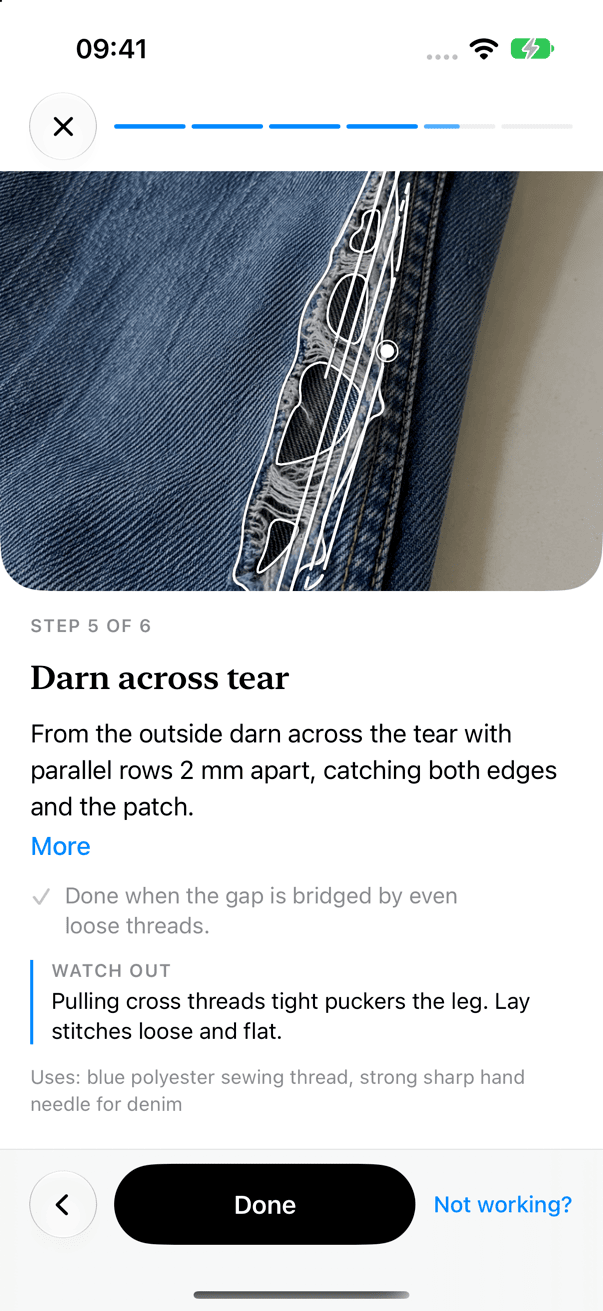
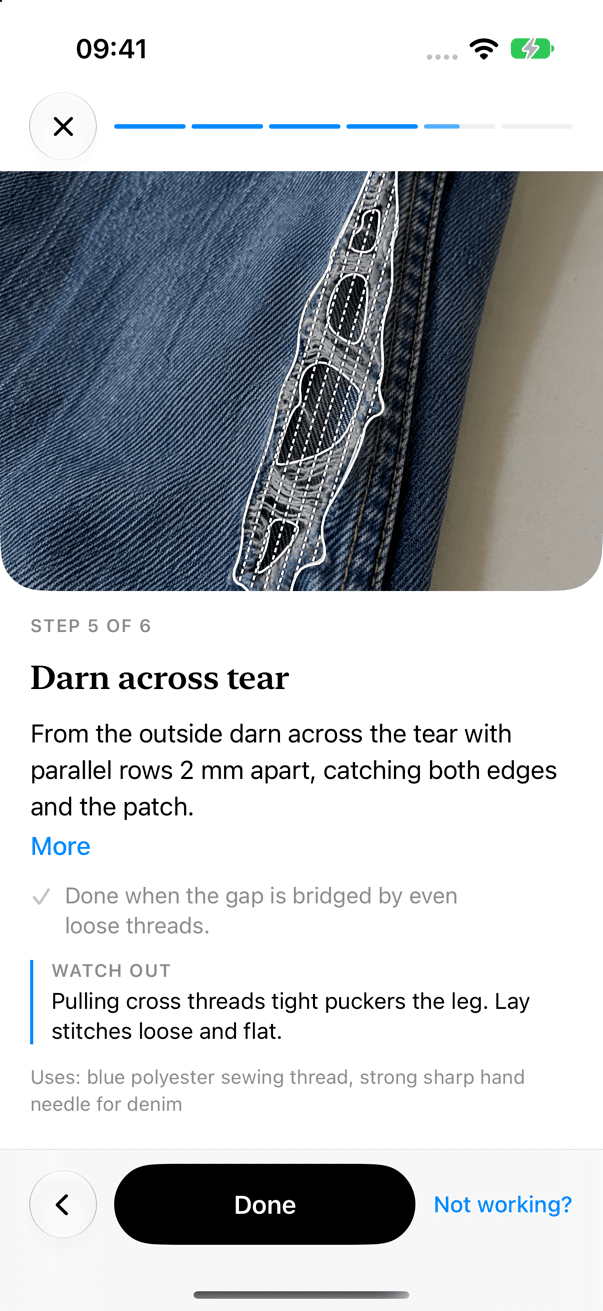
ios: Stopfmuster als echte Stichreihen im Maskenrahmen, Nadelpfeil, Leiter-/Vorstich als saubere Stichdiagramme

Changed region(s): [[0.3881, 0.122, 0.6866, 0.4577]]

diff --git a/ios/RepairAssistant/Rendering/StitchPathView.swift b/ios/RepairAssistant/Rendering/StitchPathView.swift
@@ -184,8 +184,97 @@ struct StitchPathView: View {
         return head
     }
 
+    // MARK: Crafted stitch diagram
+
+    private let stitchLen: CGFloat = 3, stitchGap: CGFloat = 2
+
+    private func maskPath(_ size: CGSize) -> Path? {
+        guard !plan.mask.isEmpty else { return nil }
+        var path = Path()
+        for ring in plan.mask where ring.count >= 3 {
+            path.addLines(ring.map { px($0, size) }); path.closeSubpath()
+        }
+        return path
+    }
+
+    /// Dark under-stroke plus white thread, both dashed.
+    private func strokeDashed(_ ctx: inout GraphicsContext, _ path: Path, phase: CGFloat, dash: [CGFloat]) {
+        ctx.stroke(path, with: .color(.black.opacity(0.6)), style: StrokeStyle(lineWidth: 3.0, lineCap: .butt, dash: dash, dashPhase: phase))
+        ctx.stroke(path, with: .color(.white), style: StrokeStyle(lineWidth: 1.5, lineCap: .butt, dash: dash, dashPhase: phase))
+    }
+
+    private func drawArrow(_ ctx: inout GraphicsContext, at m: CGPoint, from a: CGPoint, to b: CGPoint) {
+        let ang = atan2(b.y - a.y, b.x - a.x)
+        var c = ctx
+        c.translateBy(x: m.x, y: m.y); c.rotate(by: .radians(Double(ang)))
+        var arrow = Path()
+        arrow.move(to: CGPoint(x: -7, y: 0)); arrow.addLine(to: CGPoint(x: 6, y: 0))
+        arrow.move(to: CGPoint(x: 1.5, y: -4)); arrow.addLine(to: CGPoint(x: 6.5, y: 0)); arrow.addLine(to: CGPoint(x: 1.5, y: 4))
+        c.stroke(arrow, with: .color(.black.opacity(0.6)), style: StrokeStyle(lineWidth: 3.4, lineCap: .round, lineJoin: .round))
+        c.stroke(arrow, with: .color(.white), style: StrokeStyle(lineWidth: 1.6, lineCap: .round, lineJoin: .round))
+    }
+
+    private func drawDarning(_ ctx: inout GraphicsContext, _ size: CGSize, progress: Double) {
+        let rows = plan.gridLines.compactMap { l -> (CGPoint, CGPoint)? in
+            guard l.count == 2 else { return nil }
+            return (px(l[0], size), px(l[1], size))
+        }
+        guard !rows.isEmpty else { return }
+        let nWarp = min(plan.firstDirectionCount, rows.count)
+        let animated: Range<Int> = phase == .first ? 0..<nWarp : phase == .second ? nWarp..<rows.count : 0..<rows.count
+        let staticRows: Range<Int> = phase == .second ? 0..<nWarp : 0..<0
+        let shown = progress >= 1 ? animated.count : min(animated.count, Int(progress * Double(animated.count)) + 1)
+        let activeIdx = progress >= 1 ? animated.lowerBound + animated.count / 2 : animated.lowerBound + shown - 1
+        let rowProgress = progress >= 1 ? 1 : (progress * Double(animated.count)) - Double(shown - 1)
+        let dash = [stitchLen, stitchGap]
+        ctx.drawLayer { l in
+            if let m = maskPath(size) { l.clip(to: m, style: FillStyle(eoFill: true)) }
+            for i in staticRows {
+                var p = Path(); p.move(to: rows[i].0); p.addLine(to: rows[i].1)
+                strokeDashed(&l, p, phase: i % 2 == 0 ? 0 : 2.5, dash: dash)
+            }
+            for k in 0..<shown {
+                let i = animated.lowerBound + k
+                let f = (k == shown - 1 && progress < 1) ? CGFloat(min(1, max(0.02, rowProgress))) : 1
+                var p = Path(); p.move(to: rows[i].0); p.addLine(to: lerp(rows[i].0, rows[i].1, f))
+                strokeDashed(&l, p, phase: i % 2 == 0 ? 0 : 2.5, dash: dash)
+            }
+        }
+        if rows.indices.contains(activeIdx) {
+            let r = rows[activeIdx]
+            drawArrow(&ctx, at: lerp(r.0, r.1, progress >= 1 ? 0.5 : max(0.1, CGFloat(rowProgress) * 0.9)), from: r.0, to: r.1)
+        }
+    }
+
+    private func drawLadder(_ ctx: inout GraphicsContext, _ size: CGSize, progress: Double) {
+        let pts = plan.stitches.map { px($0.position, size) }
+        guard pts.count >= 2 else { return }
+        let legs = pts.count - 1
+        let shown = progress >= 1 ? legs : min(legs, Int(progress * Double(legs)) + 1)
+        for i in 0..<legs {
+            let a = pts[i], b = pts[i + 1]
+            let d = max(hypot(b.x - a.x, b.y - a.y), 1)
+            let inset = min(3 / d, 0.3)
+            let s = lerp(a, b, inset), e = lerp(a, b, 1 - inset)
+            // hole at the entry point of every leg
+            let r: CGFloat = 2.2
+            let hole = Path(ellipseIn: CGRect(x: a.x - r, y: a.y - r, width: r * 2, height: r * 2))
+            if i < shown { ctx.stroke(hole, with: .color(.white.opacity(0.9)), lineWidth: 1); }
+            if plan.running && i % 2 == 1 { continue }
+            guard i < shown else { continue }
+            let f: CGFloat = (i == shown - 1 && progress < 1) ? CGFloat(min(1, max(0.1, progress * Double(legs) - Double(i)))) : 1
+            var p = Path(); p.move(to: s); p.addLine(to: lerp(s, e, f))
+            ctx.stroke(p, with: .color(.black.opacity(0.6)), style: StrokeStyle(lineWidth: 3.2, lineCap: .round))
+            ctx.stroke(p, with: .color(.white), style: StrokeStyle(lineWidth: 1.7, lineCap: .round))
+        }
+        let ai = min(legs - 1, progress >= 1 ? legs / 2 : shown - 1)
+        drawArrow(&ctx, at: lerp(pts[ai], pts[ai + 1], 0.5), from: pts[ai], to: pts[ai + 1])
+    }
+
     private func draw(_ ctx: inout GraphicsContext, _ size: CGSize, progress: Double, alpha: Double) {
         ctx.opacity = alpha
+        if plan.kind == .darning { drawDarning(&ctx, size, progress: progress); return }
+        if plan.kind == .stitches { drawLadder(&ctx, size, progress: progress); return }
         let thread = Theme.highlight
         var tr: Trace
         switch plan.kind {

diff --git a/ios/RepairAssistant/Rendering/StitchPathPlanner.swift b/ios/RepairAssistant/Rendering/StitchPathPlanner.swift
@@ -20,6 +20,10 @@ struct StitchPlan: Equatable, Sendable {
     var warpStrokes: [StitchPathPlanner.DarnStroke] = []
     var weftStrokes: [StitchPathPlanner.DarnStroke] = []
     var isFallback = false
+    /// Running stitch: only every other leg is visible on top of the fabric.
+    var running = false
+    /// Damage mask rings (normalized) the stitch rows are clipped to; empty = no clipping.
+    var mask: [[CGPoint]] = []
     static let empty = StitchPlan()
 
     /// Keeps every point inside `r` (normalized image coordinates).
@@ -50,6 +54,7 @@ enum StitchPathPlanner {
 
     static func plan(polygon: [CGPoint], box: CGRect?, stitchType: StitchType, aspect: CGFloat = 1, config: Config = Config()) -> StitchPlan {
         var p = rawPlan(polygon: polygon, box: box, stitchType: stitchType, aspect: aspect, config: config)
+        p.running = stitchType == .runningStitch
         let clean = polygon.filter { $0.x.isFinite && $0.y.isFinite }
         var r: CGRect? = clean.count >= 3 ? bounds(clean) : box
         if let b = r, b.width <= 1e-5 || b.height <= 1e-5 { r = box }
@@ -453,7 +458,9 @@ enum StitchPathPlanner {
 
     /// Convenience for a segment.
     static func plan(for segment: Segment, stitchType: StitchType, aspect: CGFloat) -> StitchPlan {
-        plan(polygon: segment.polygon, box: segment.normalizedBox, stitchType: stitchType, aspect: aspect)
+        var p = plan(polygon: segment.polygon, box: segment.normalizedBox, stitchType: stitchType, aspect: aspect)
+        p.mask = segment.ringPolygons.map(\.points)
+        return p
     }
 }
 
